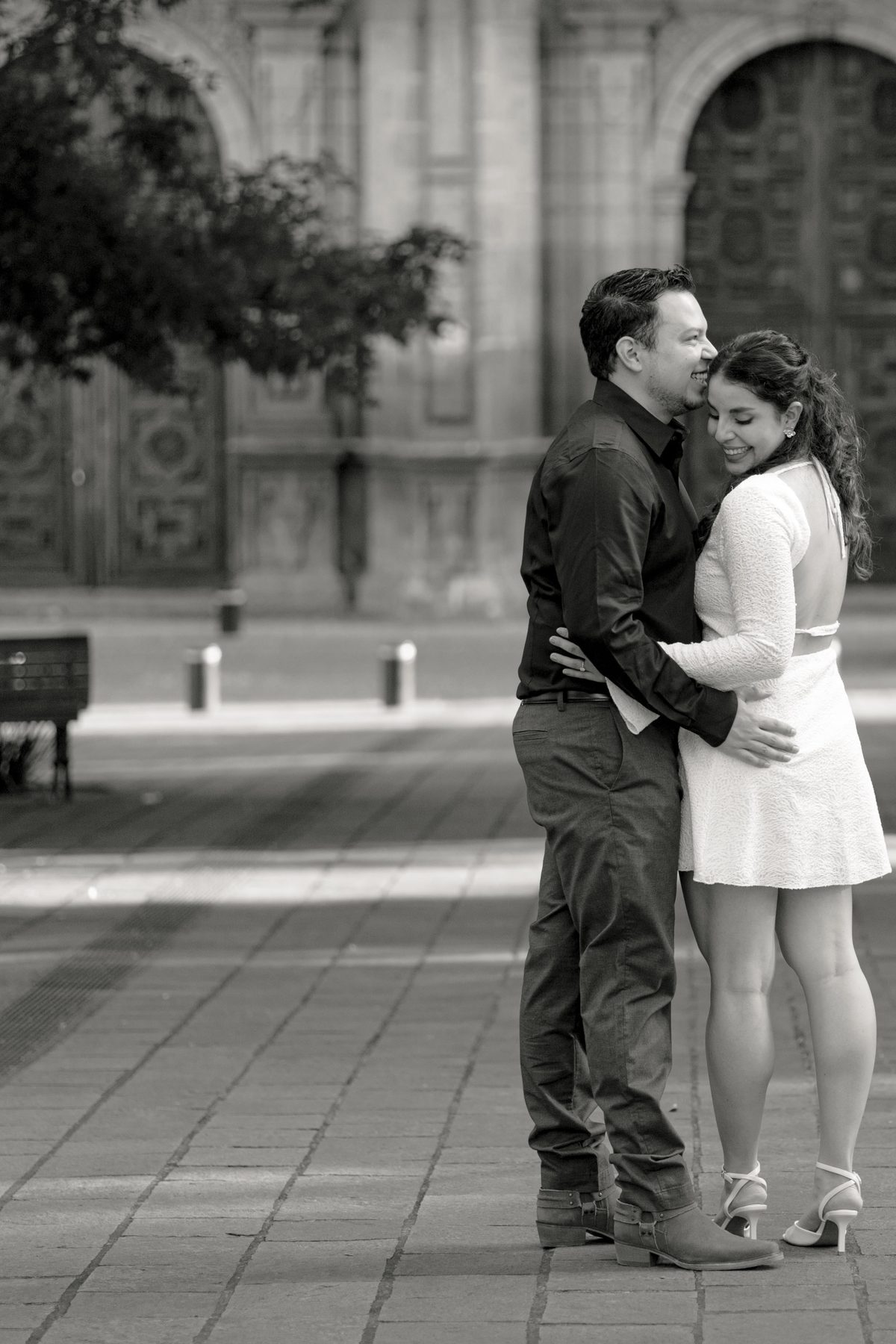
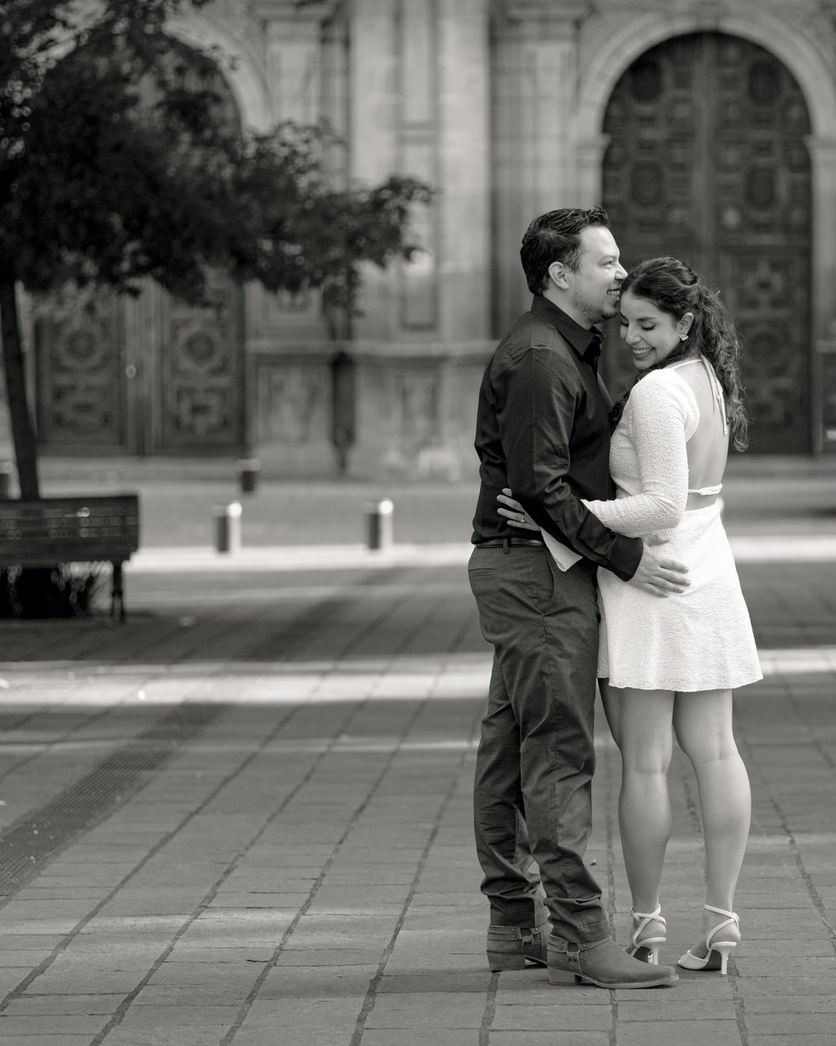
Respetar el encuadre de cada foto y quitarle el temblor al carrusel
Tenías razón en lo del encuadre, y es peor de lo que parecía. Medido:

· En el archivo sólo estropeé dos —el atrio (0.800 → 0.667) y el anillo
  (0.600 → 0.667)—, que eran justo las dos con encuadre propio. Ya se
  rehicieron desde el original sin recortar nada, sólo reduciendo tamaño.

· Pero en pantalla eran 18 de 22. A cada celda del mosaico le había puesto
  una proporción «de ritmo» (3/4, 4/5, 1/1, 3/2) y object-fit:cover
  recortaba la foto para meterla ahí: 13% en las verticales, 20% en las que
  cayeron en 4/5, y 50% en el anillo y el atrio, que quedaron en cuadrado.
  Y en el carrusel iban las 22 forzadas a 3/4.

  Ahora cada celda toma la proporción real de su foto. En el carrusel,
  todas comparten el alto y cada una toma el ancho que le pide su
  proporción. Verificado: cero celdas que recorten.

Sobre el temblor del carrusel: la causa es que la escala de cada foto la
escribe el scroll cuadro a cuadro, y encima había una transición de .7s
sobre `transform`. Cada cuadro arrancaba una animación nueva, así que el
efecto perseguía al dedo sin alcanzarlo. En modo carrusel esas transiciones
ahora van en `none` —ahí el scroll ES la animación—; la del blanco y negro
se queda, porque ése sí es un cambio de golpe.

De paso separé las mediciones de las escrituras en pintaCarrusel. Lo hice
pensando que las lecturas intercaladas forzaban recálculos de página, medí
para comprobarlo y resultó que no: `transform` no provoca recálculo, se
[…]

diff --git a/index.html b/index.html
@@ -366,28 +366,28 @@
 </div>
 
 <div id="jm-grid" class="jm-gal is-mosaico">
-<div class="jm-gitem" data-reveal="1" style="--jm-prop:3/4"><button type="button" class="jm-gcell" data-gcell="0" aria-label="Ampliar: Jorge y Montse con Raava en la puerta de madera"><div class="jm-photo" data-photo="1" style="filter:grayscale(1) contrast(1.04)"><img loading="lazy" decoding="async" class="jm-fill" src="assets/foto-puerta-raava.jpeg" alt="Jorge y Montse con Raava en la puerta de madera"></div><div class="jm-veil" data-veil="1"></div><div class="jm-gframe" data-gframe="1"></div></button></div>
-<div class="jm-gitem" data-reveal="1" style="--jm-prop:4/5"><button type="button" class="jm-gcell" data-gcell="1" aria-label="Ampliar: Los dos recargados en el portón"><div class="jm-photo" data-photo="1" style="filter:grayscale(1) contrast(1.04)"><img loading="lazy" decoding="async" class="jm-fill" src="assets/foto-puerta-madera.jpeg" alt="Los dos recargados en el portón"></div><div class="jm-veil" data-veil="1"></div><div class="jm-gframe" data-gframe="1"></div></button></div>
-<div class="jm-gitem" data-reveal="1" style="--jm-prop:3/2"><button type="button" class="jm-gcell" data-gcell="2" aria-label="Ampliar: Un beso a media calle del centro"><div class="jm-photo" data-photo="1" style="filter:grayscale(1) contrast(1.04)"><img loading="lazy" decoding="async" class="jm-fill" src="assets/foto-beso-calle.jpeg" alt="Un beso a media calle del centro"></div><div class="jm-veil" data-veil="1"></div><div class="jm-gframe" data-gframe="1"></div></button></div>
-<div class="jm-gitem" data-reveal="1" style="--jm-prop:3/4"><button type="button" class="jm-gcell" data-gcell="3" aria-label="Ampliar: Caminando por el empedrado"><div class="jm-photo" data-photo="1" style="filter:grayscale(1) contrast(1.04)"><img loading="lazy" decoding="async" class="jm-fill" src="assets/foto-caminando.jpeg" alt="Caminando por el empedrado"></div><div class="jm-veil" data-veil="1"></div><div class="jm-gframe" data-gframe="1"></div></button></div>
+<div class="jm-gitem" data-reveal="1" style="--jm-prop:2/3"><button type="button" class="jm-gcell" data-gcell="0" aria-label="Ampliar: Jorge y Montse con Raava en la puerta de madera"><div class="jm-photo" data-photo="1" style="filter:grayscale(1) contrast(1.04)"><img loading="lazy" decoding="async" class="jm-fill" src="assets/foto-puerta-raava.jpeg" alt="Jorge y Montse con Raava en la puerta de madera"></div><div class="jm-veil" data-veil="1"></div><div class="jm-gframe" data-gframe="1"></div></button></div>
+<div class="jm-gitem" data-reveal="1" style="--jm-prop:2/3"><button type="button" class="jm-gcell" data-gcell="1" aria-label="Ampliar: Los dos recargados en el portón"><div class="jm-photo" data-photo="1" style="filter:grayscale(1) contrast(1.04)"><img loading="lazy" decoding="async" class="jm-fill" src="assets/foto-puerta-madera.jpeg" alt="Los dos recargados en el portón"></div><div class="jm-veil" data-veil="1"></div><div class="jm-gframe" data-gframe="1"></div></button></div>
+<div class="jm-gitem" data-reveal="1" style="--jm-prop:1400/933"><button type="button" class="jm-gcell" data-gcell="2" aria-label="Ampliar: Un beso a media calle del centro"><div class="jm-photo" data-photo="1" style="filter:grayscale(1) contrast(1.04)"><img loading="lazy" decoding="async" class="jm-fill" src="assets/foto-beso-calle.jpeg" alt="Un beso a media calle del centro"></div><div class="jm-veil" data-veil="1"></div><div class="jm-gframe" data-gframe="1"></div></button></div>
+<div class="jm-gitem" data-reveal="1" style="--jm-prop:2/3"><button type="button" class="jm-gcell" data-gcell="3" aria-label="Ampliar: Caminando por el empedrado"><div class="jm-photo" data-photo="1" style="filter:grayscale(1) contrast(1.04)"><img loading="lazy" decoding="async" class="jm-fill" src="assets/foto-caminando.jpeg" alt="Caminando por el empedrado"></div><div class="jm-veil" data-veil="1"></div><div class="jm-gframe" data-gframe="1"></div></button></div>
 <div class="jm-gitem" data-reveal="1" style="--jm-prop:4/5"><button type="button" class="jm-gcell" data-gcell="4" aria-label="Ampliar: Montse dando una vuelta de la mano de Jorge"><div class="jm-photo" data-photo="1" style="filter:grayscale(1) contrast(1.04)"><img loading="lazy" decoding="async" class="jm-fill" src="assets/foto-vuelta.jpeg" alt="Montse dando una vuelta de la mano de Jorge"></div><div class="jm-veil" data-veil="1"></div><div class="jm-gframe" data-gframe="1"></div></button></div>
-<div class="jm-gitem" data-reveal="1" style="--jm-prop:3/2"><button type="button" class="jm-gcell" data-gcell="5" aria-label="Ampliar: Los dos riéndose"><div class="jm-photo" data-photo="1" style="filter:grayscale(1) contrast(1.04)"><img loading="lazy" decoding="async" class="jm-fill" src="assets/foto-risa.jpeg" alt="Los dos riéndose"></div><div class="jm-veil" data-veil="1"></div><div class="jm-gframe" data-gframe="1"></div></button></div>
-<div class="jm-gitem" data-reveal="1" style="--jm-prop:3/4"><button type="button" class="jm-gcell" data-gcell="6" aria-label="Ampliar: Un beso frente a la cantera de la fachada"><div class="jm-photo" data-photo="1" style="filter:grayscale(1) contrast(1.04)"><img loading="lazy" decoding="async" class="jm-fill" src="assets/foto-beso-fachada.jpeg" alt="Un beso frente a la cantera de la fachada"></div><div class="jm-veil" data-veil="1"></div><div class="jm-gframe" data-gframe="1"></div></button></div>
-<div class="jm-gitem" data-reveal="1" style="--jm-prop:4/5"><button type="button" class="jm-gcell" data-gcell="7" aria-label="Ampliar: Abrazados frente a las puertas del templo"><div class="jm-photo" data-photo="1" style="filter:grayscale(1) contrast(1.04)"><img loading="lazy" decoding="async" class="jm-fill" src="assets/foto-puerta-templo.jpeg" alt="Abrazados frente a las puertas del templo"></div><div class="jm-veil" data-veil="1"></div><div class="jm-gframe" data-gframe="1"></div></button></div>
-<div class="jm-gitem" data-reveal="1" style="--jm-prop:1/1"><button type="button" class="jm-gcell" data-gcell="8" aria-label="Ampliar: En el atrio, en blanco y negro"><div class="jm-photo" data-photo="1" style="filter:grayscale(1) contrast(1.04)"><img loading="lazy" decoding="async" class="jm-fill" src="assets/foto-atrio.jpeg" alt="En el atrio, en blanco y negro"></div><div class="jm-veil" data-veil="1"></div><div class="jm-gframe" data-gframe="1"></div></button></div>
-<div class="jm-gitem" data-reveal="1" style="--jm-prop:3/4"><button type="button" class="jm-gcell" data-gcell="9" aria-label="Ampliar: Un abrazo en medio de la calle"><div class="jm-photo" data-photo="1" style="filter:grayscale(1) contrast(1.04)"><img loading="lazy" decoding="async" class="jm-fill" src="assets/foto-abrazo-calle.jpeg" alt="Un abrazo en medio de la calle"></div><div class="jm-veil" data-veil="1"></div><div class="jm-gframe" data-gframe="1"></div></button></div>
-<div class="jm-gitem" data-reveal="1" style="--jm-prop:4/5"><button type="button" class="jm-gcell" data-gcell="10" aria-label="Ampliar: Jorge le da un beso en la mejilla"><div class="jm-photo" data-photo="1" style="filter:grayscale(1) contrast(1.04)"><img loading="lazy" decoding="async" class="jm-fill" src="assets/foto-beso-mejilla.jpeg" alt="Jorge le da un beso en la mejilla"></div><div class="jm-veil" data-veil="1"></div><div class="jm-gframe" data-gframe="1"></div></button></div>
-<div class="jm-gitem" data-reveal="1" style="--jm-prop:1/1"><button type="button" class="jm-gcell" data-gcell="11" aria-label="Ampliar: El anillo de compromiso"><div class="jm-photo" data-photo="1" style="filter:grayscale(1) contrast(1.04)"><img loading="lazy" decoding="async" class="jm-fill" src="assets/foto-anillo.jpeg" alt="El anillo de compromiso"></div><div class="jm-veil" data-veil="1"></div><div class="jm-gframe" data-gframe="1"></div></button></div>
-<div class="jm-gitem" data-reveal="1" style="--jm-prop:3/4"><button type="button" class="jm-gcell" data-gcell="12" aria-label="Ampliar: Frente con frente, nariz con nariz"><div class="jm-photo" data-photo="1" style="filter:grayscale(1) contrast(1.04)"><img loading="lazy" decoding="async" class="jm-fill" src="assets/foto-narices.jpeg" alt="Frente con frente, nariz con nariz"></div><div class="jm-veil" data-veil="1"></div><div class="jm-gframe" data-gframe="1"></div></button></div>
-<div class="jm-gitem" data-reveal="1" style="--jm-prop:4/5"><button type="button" class="jm-gcell" data-gcell="13" aria-label="Ampliar: Montse le aprieta los cachetes a Jorge"><div class="jm-photo" data-photo="1" style="filter:grayscale(1) contrast(1.04)"><img loading="lazy" decoding="async" class="jm-fill" src="assets/foto-cachetes.jpeg" alt="Montse le aprieta los cachetes a Jorge"></div><div class="jm-veil" data-veil="1"></div><div class="jm-gframe" data-gframe="1"></div></button></div>
-<div class="jm-gitem" data-reveal="1" style="--jm-prop:3/4"><button type="button" class="jm-gcell" data-gcell="14" aria-label="Ampliar: Abrazados contra el muro de piedra"><div class="jm-photo" data-photo="1" style="filter:grayscale(1) contrast(1.04)"><img loading="lazy" decoding="async" class="jm-fill" src="assets/foto-abrazo-muro.jpeg" alt="Abrazados contra el muro de piedra"></div><div class="jm-veil" data-veil="1"></div><div class="jm-gframe" data-gframe="1"></div></button></div>
-<div class="jm-gitem" data-reveal="1" style="--jm-prop:4/5"><button type="button" class="jm-gcell" data-gcell="15" aria-label="Ampliar: Los dos de frente, muy juntos"><div class="jm-photo" data-photo="1" style="filter:grayscale(1) contrast(1.04)"><img loading="lazy" decoding="async" class="jm-fill" src="assets/foto-frente-a-frente.jpeg" alt="Los dos de frente, muy juntos"></div><div class="jm-veil" data-veil="1"></div><div class="jm-gframe" data-gframe="1"></div></button></div>
-<div class="jm-gitem" data-reveal="1" style="--jm-prop:3/4"><button type="button" class="jm-gcell" data-gcell="16" aria-label="Ampliar: Un beso con ella de puntitas"><div class="jm-photo" data-photo="1" style="filter:grayscale(1) contrast(1.04)"><img loading="lazy" decoding="async" class="jm-fill" src="assets/foto-beso-alzada.jpeg" alt="Un beso con ella de puntitas"></div><div class="jm-veil" data-veil="1"></div><div class="jm-gframe" data-gframe="1"></div></button></div>
-<div class="jm-gitem" data-reveal="1" style="--jm-prop:4/5"><button type="button" class="jm-gcell" data-gcell="17" aria-label="Ampliar: Sentados, platicando"><div class="jm-photo" data-photo="1" style="filter:grayscale(1) contrast(1.04)"><img loading="lazy" decoding="async" class="jm-fill" src="assets/foto-sentados.jpeg" alt="Sentados, platicando"></div><div class="jm-veil" data-veil="1"></div><div class="jm-gframe" data-gframe="1"></div></button></div>
-<div class="jm-gitem" data-reveal="1" style="--jm-prop:3/2"><button type="button" class="jm-gcell" data-gcell="18" aria-label="Ampliar: Raava en la banca con los dos"><div class="jm-photo" data-photo="1" style="filter:grayscale(1) contrast(1.04)"><img loading="lazy" decoding="async" class="jm-fill" src="assets/foto-raava-banca.jpeg" alt="Raava en la banca con los dos"></div><div class="jm-veil" data-veil="1"></div><div class="jm-gframe" data-gframe="1"></div></button></div>
-<div class="jm-gitem" data-reveal="1" style="--jm-prop:3/4"><button type="button" class="jm-gcell" data-gcell="19" aria-label="Ampliar: Los tres sentados en la banca del jardín"><div class="jm-photo" data-photo="1" style="filter:grayscale(1) contrast(1.04)"><img loading="lazy" decoding="async" class="jm-fill" src="assets/foto-banca.jpeg" alt="Los tres sentados en la banca del jardín"></div><div class="jm-veil" data-veil="1"></div><div class="jm-gframe" data-gframe="1"></div></button></div>
-<div class="jm-gitem" data-reveal="1" style="--jm-prop:4/5"><button type="button" class="jm-gcell" data-gcell="20" aria-label="Ampliar: Raava con la paliacate de save the date"><div class="jm-photo" data-photo="1" style="filter:grayscale(1) contrast(1.04)"><img loading="lazy" decoding="async" class="jm-fill" src="assets/foto-raava-bandana.jpeg" alt="Raava con la paliacate de save the date"></div><div class="jm-veil" data-veil="1"></div><div class="jm-gframe" data-gframe="1"></div></button></div>
-<div class="jm-gitem" data-reveal="1" style="--jm-prop:3/4"><button type="button" class="jm-gcell" data-gcell="21" aria-label="Ampliar: Los tres juntos: Jorge, Montse y Raava"><div class="jm-photo" data-photo="1" style="filter:grayscale(1) contrast(1.04)"><img loading="lazy" decoding="async" class="jm-fill" src="assets/foto-los-tres.jpeg" alt="Los tres juntos: Jorge, Montse y Raava"></div><div class="jm-veil" data-veil="1"></div><div class="jm-gframe" data-gframe="1"></div></button></div>
+<div class="jm-gitem" data-reveal="1" style="--jm-prop:1400/933"><button type="button" class="jm-gcell" data-gcell="5" aria-label="Ampliar: Los dos riéndose"><div class="jm-photo" data-photo="1" style="filter:grayscale(1) contrast(1.04)"><img loading="lazy" decoding="async" class="jm-fill" src="assets/foto-risa.jpeg" alt="Los dos riéndose"></div><div class="jm-veil" data-veil="1"></div><div class="jm-gframe" data-gframe="1"></div></button></div>
+<div class="jm-gitem" data-reveal="1" style="--jm-prop:2/3"><button type="button" class="jm-gcell" data-gcell="6" aria-label="Ampliar: Un beso frente a la cantera de la fachada"><div class="jm-photo" data-photo="1" style="filter:grayscale(1) contrast(1.04)"><img loading="lazy" decoding="async" class="jm-fill" src="assets/foto-beso-fachada.jpeg" alt="Un beso frente a la cantera de la fachada"></div><div class="jm-veil" data-veil="1"></div><div class="jm-gframe" data-gframe="1"></div></button></div>
+<div class="jm-gitem" data-reveal="1" style="--jm-prop:2/3"><button type="button" class="jm-gcell" data-gcell="7" aria-label="Ampliar: Abrazados frente a las puertas del templo"><div class="jm-photo" data-photo="1" style="filter:grayscale(1) contrast(1.04)"><img loading="lazy" decoding="async" class="jm-fill" src="assets/foto-puerta-templo.jpeg" alt="Abrazados frente a las puertas del templo"></div><div class="jm-veil" data-veil="1"></div><div class="jm-gframe" data-gframe="1"></div></button></div>
+<div class="jm-gitem" data-reveal="1" style="--jm-prop:4/5"><button type="button" class="jm-gcell" data-gcell="8" aria-label="Ampliar: En el atrio, en blanco y negro"><div class="jm-photo" data-photo="1" style="filter:grayscale(1) contrast(1.04)"><img loading="lazy" decoding="async" class="jm-fill" src="assets/foto-atrio.jpeg" alt="En el atrio, en blanco y negro"></div><div class="jm-veil" data-veil="1"></div><div class="jm-gframe" data-gframe="1"></div></button></div>
+<div class="jm-gitem" data-reveal="1" style="--jm-prop:1200/1801"><button type="button" class="jm-gcell" data-gcell="9" aria-label="Ampliar: Un abrazo en medio de la calle"><div class="jm-photo" data-photo="1" style="filter:grayscale(1) contrast(1.04)"><img loading="lazy" decoding="async" class="jm-fill" src="assets/foto-abrazo-calle.jpeg" alt="Un abrazo en medio de la calle"></div><div class="jm-veil" data-veil="1"></div><div class="jm-gframe" data-gframe="1"></div></button></div>
+<div class="jm-gitem" data-reveal="1" style="--jm-prop:2/3"><button type="button" class="jm-gcell" data-gcell="10" aria-label="Ampliar: Jorge le da un beso en la mejilla"><div class="jm-photo" data-photo="1" style="filter:grayscale(1) contrast(1.04)"><img loading="lazy" decoding="async" class="jm-fill" src="assets/foto-beso-mejilla.jpeg" alt="Jorge le da un beso en la mejilla"></div><div class="jm-veil" data-veil="1"></div><div class="jm-gframe" data-gframe="1"></div></button></div>
+<div class="jm-gitem" data-reveal="1" style="--jm-prop:3/5"><button type="button" class="jm-gcell" data-gcell="11" aria-label="Ampliar: El anillo de compromiso"><div class="jm-photo" data-photo="1" style="filter:grayscale(1) contrast(1.04)"><img loading="lazy" decoding="async" class="jm-fill" src="assets/foto-anillo.jpeg" alt="El anillo de compromiso"></div><div class="jm-veil" data-veil="1"></div><div class="jm-gframe" data-gframe="1"></div></button></div>
+<div class="jm-gitem" data-reveal="1" style="--jm-prop:2/3"><button type="button" class="jm-gcell" data-gcell="12" aria-label="Ampliar: Frente con frente, nariz con nariz"><div class="jm-photo" data-photo="1" style="filter:grayscale(1) contrast(1.04)"><img loading="lazy" decoding="async" class="jm-fill" src="assets/foto-narices.jpeg" alt="Frente con frente, nariz con nariz"></div><div class="jm-veil" data-veil="1"></div><div class="jm-gframe" data-gframe="1"></div></button></div>
+<div class="jm-gitem" data-reveal="1" style="--jm-prop:2/3"><button type="button" class="jm-gcell" data-gcell="13" aria-label="Ampliar: Montse le aprieta los cachetes a Jorge"><div class="jm-photo" data-photo="1" style="filter:grayscale(1) contrast(1.04)"><img loading="lazy" decoding="async" class="jm-fill" src="assets/foto-cachetes.jpeg" alt="Montse le aprieta los cachetes a Jorge"></div><div class="jm-veil" data-veil="1"></div><div class="jm-gframe" data-gframe="1"></div></button></div>
+<div class="jm-gitem" data-reveal="1" style="--jm-prop:2/3"><button type="button" class="jm-gcell" data-gcell="14" aria-label="Ampliar: Abrazados contra el muro de piedra"><div class="jm-photo" data-photo="1" style="filter:grayscale(1) contrast(1.04)"><img loading="lazy" decoding="async" class="jm-fill" src="assets/foto-abrazo-muro.jpeg" alt="Abrazados contra el muro de piedra"></div><div class="jm-veil" data-veil="1"></div><div class="jm-gframe" data-gframe="1"></div></button></div>
+<div class="jm-gitem" data-reveal="1" style="--jm-prop:2/3"><button type="button" class="jm-gcell" data-gcell="15" aria-label="Ampliar: Los dos de frente, muy juntos"><div class="jm-photo" data-photo="1" style="filter:grayscale(1) contrast(1.04)"><img loading="lazy" decoding="async" class="jm-fill" src="assets/foto-frente-a-frente.jpeg" alt="Los dos de frente, muy juntos"></div><div class="jm-veil" data-veil="1"></div><div class="jm-gframe" data-gframe="1"></div></button></div>
+<div class="jm-gitem" data-reveal="1" style="--jm-prop:1200/1801"><button type="button" class="jm-gcell" data-gcell="16" aria-label="Ampliar: Un beso con ella de puntitas"><div class="jm-photo" data-photo="1" style="filter:grayscale(1) contrast(1.04)"><img loading="lazy" decoding="async" class="jm-fill" src="assets/foto-beso-alzada.jpeg" alt="Un beso con ella de puntitas"></div><div class="jm-veil" data-veil="1"></div><div class="jm-gframe" data-gframe="1"></div></button></div>
+<div class="jm-gitem" data-reveal="1" style="--jm-prop:2/3"><button type="button" class="jm-gcell" data-gcell="17" aria-label="Ampliar: Sentados, platicando"><div class="jm-photo" data-photo="1" style="filter:grayscale(1) contrast(1.04)"><img loading="lazy" decoding="async" class="jm-fill" src="assets/foto-sentados.jpeg" alt="Sentados, platicando"></div><div class="jm-veil" data-veil="1"></div><div class="jm-gframe" data-gframe="1"></div></button></div>
+<div class="jm-gitem" data-reveal="1" style="--jm-prop:1400/933"><button type="button" class="jm-gcell" data-gcell="18" aria-label="Ampliar: Raava en la banca con los dos"><div class="jm-photo" data-photo="1" style="filter:grayscale(1) contrast(1.04)"><img loading="lazy" decoding="async" class="jm-fill" src="assets/foto-raava-banca.jpeg" alt="Raava en la banca con los dos"></div><div class="jm-veil" data-veil="1"></div><div class="jm-gframe" data-gframe="1"></div></button></div>
+<div class="jm-gitem" data-reveal="1" style="--jm-prop:2/3"><button type="button" class="jm-gcell" data-gcell="19" aria-label="Ampliar: Los tres sentados en la banca del jardín"><div class="jm-photo" data-photo="1" style="filter:grayscale(1) contrast(1.04)"><img loading="lazy" decoding="async" class="jm-fill" src="assets/foto-banca.jpeg" alt="Los tres sentados en la banca del jardín"></div><div class="jm-veil" data-veil="1"></div><div class="jm-gframe" data-gframe="1"></div></button></div>
+<div class="jm-gitem" data-reveal="1" style="--jm-prop:2/3"><button type="button" class="jm-gcell" data-gcell="20" aria-label="Ampliar: Raava con la paliacate de save the date"><div class="jm-photo" data-photo="1" style="filter:grayscale(1) contrast(1.04)"><img loading="lazy" decoding="async" class="jm-fill" src="assets/foto-raava-bandana.jpeg" alt="Raava con la paliacate de save the date"></div><div class="jm-veil" data-veil="1"></div><div class="jm-gframe" data-gframe="1"></div></button></div>
+<div class="jm-gitem" data-reveal="1" style="--jm-prop:2/3"><button type="button" class="jm-gcell" data-gcell="21" aria-label="Ampliar: Los tres juntos: Jorge, Montse y Raava"><div class="jm-photo" data-photo="1" style="filter:grayscale(1) contrast(1.04)"><img loading="lazy" decoding="async" class="jm-fill" src="assets/foto-los-tres.jpeg" alt="Los tres juntos: Jorge, Montse y Raava"></div><div class="jm-veil" data-veil="1"></div><div class="jm-gframe" data-gframe="1"></div></button></div>
 </div>
 
 <!-- Pie del carrusel: se enciende sólo en ese modo (site.js). Las flechas

diff --git a/assets/js/site.js b/assets/js/site.js
@@ -602,12 +602,20 @@
        mismo filtro. */
     if (modo === 'carrusel') {
       if (state.obsCentro) { state.obsCentro.disconnect(); state.obsCentro = null; }
+      /* No basta con scrollLeft = 0: como cada diapositiva mide lo que le
+         pide su foto, el padding de los lados está calculado para la más
+         ancha y en el cero la primera queda descentrada. Hay que llevarla
+         a su sitio, igual que hacen las flechas. */
+      state.carIndex = 0;
       el.grid.scrollLeft = 0;
-      pintaCarrusel();
       /* El layout del carrusel aún no está firme en el mismo frame en que
-         se pone la clase; sin este segundo pase la primera foto arranca
-         apagada. */
-      requestAnimationFrame(pintaCarrusel);
+         se pone la clase: medir aquí devolvería la geometría del mosaico.
+         Por eso el centrado y el primer pintado van hasta el cuadro
+         siguiente, cuando las diapositivas ya tienen su ancho. */
+      requestAnimationFrame(function () {
+        centraDiapo(0, 'auto');
+        pintaCarrusel();
+      });
     } else {
       limpiaCarrusel();
       setupGaleriaSinMouse();
@@ -651,15 +659,25 @@
     var centro = caja.left + caja.width / 2;
     var gris = PHOTO_FILTERS[CONFIG.photoTone] || PHOTO_FILTERS['blanco y negro'];
     var masCerca = 0, mejor = Infinity;
+    var i, cell;
 
-    for (var i = 0; i < cells.length; i++) {
-      var cell = cells[i];
-      var r = cell.getBoundingClientRect();
+    /* Primero se mide TODO y después se escribe TODO.
+       Mezclarlo —medir una celda, escribirle, medir la siguiente— obliga al
+       navegador a recalcular la página entre una y otra: 22 recálculos por
+       cuadro, y de ahí venía el temblor al arrastrar. */
+    var t = [];
+    for (i = 0; i < cells.length; i++) {
+      var r = cells[i].getBoundingClientRect();
       var d = (r.left + r.width / 2) - centro;
-      var t = Math.max(-1, Math.min(1, d / (caja.width / 2 || 1)));
-      var a = Math.abs(t);
-      if (a < mejor) { mejor = a; masCerca = i; }
+      var v = Math.max(-1, Math.min(1, d / (caja.width / 2 || 1)));
+      t.push(v);
+      var a0 = Math.abs(v);
+      if (a0 < mejor) { mejor = a0; masCerca = i; }
+    }
 
+    for (i = 0; i < cells.length; i++) {
+      cell = cells[i];
+      var a = Math.abs(t[i]);
       var img = cell.querySelector('img');
       var veil = cell.querySelector('[data-veil]');
       var frame = cell.querySelector('[data-gframe]');
@@ -670,11 +688,13 @@
         if (img) img.style.setProperty('--jm-px', '0px');
       } else {
         cell.style.setProperty('--jm-esc', (1 - a * 0.12).toFixed(4));
-        if (img) img.style.setProperty('--jm-px', (-t * 26).toFixed(1) + 'px');
+        if (img) img.style.setProperty('--jm-px', (-t[i] * 26).toFixed(1) + 'px');
         if (img) img.style.setProperty('--jm-zoom', '1.1');
       }
       if (veil) veil.style.setProperty('--jm-velo', Math.min(1, a * 1.6).toFixed(3));
       if (frame) frame.style.setProperty('--jm-marco', Math.max(0, 1 - a * 3).toFixed(3));
+      /* El blanco y negro sí lleva transición: es un cambio de golpe, no un
+         valor que se recalcula cuadro a cuadro. */
       if (inner) inner.style.filter = a < 0.34 ? 'none' : gris;
     }
 
@@ -688,15 +708,21 @@
     state.carIndex = masCerca;
   }
 
-  function pasoCarrusel(dir) {
-    if (!el.grid || !cells.length) return;
-    var i = Math.max(0, Math.min(cells.length - 1, (state.carIndex || 0) + dir));
+  /* Deja la diapositiva `i` en el centro del riel. */
+  function centraDiapo(i, comportamiento) {
     var cell = cells[i];
-    if (!cell) return;
+    if (!el.grid || !cell) return;
     var caja = el.grid.getBoundingClientRect();
     var r = cell.getBoundingClientRect();
     var salto = (r.left + r.width / 2) - (caja.left + caja.width / 2);
-    el.grid.scrollBy({ left: salto, behavior: reduceMotion ? 'auto' : 'smooth' });
+    if (Math.abs(salto) < 1) return;
+    el.grid.scrollBy({ left: salto, behavior: comportamiento || 'auto' });
+  }
+
+  function pasoCarrusel(dir) {
+    if (!el.grid || !cells.length) return;
+    var i = Math.max(0, Math.min(cells.length - 1, (state.carIndex || 0) + dir));
+    centraDiapo(i, reduceMotion ? 'auto' : 'smooth');
   }
 
   function fitGrid() {

diff --git a/assets/css/site.css b/assets/css/site.css
@@ -243,20 +243,46 @@ img { max-width: 100%; }
   scroll-padding-inline: max(var(--jm-lado), calc(50% + var(--jm-lado) - var(--jm-diapo) / 2));
 }
 .jm-gal.is-carrusel::-webkit-scrollbar { display: none; }
+/* Todas las diapositivas comparten el alto y cada una toma el ancho que le
+   pide su propia proporción. Antes iban todas forzadas a 3/4 y `cover`
+   recortaba: eso tiraba el encuadre con el que se escogió cada foto. El
+   ancho de referencia para centrar es el de la más ancha (la horizontal,
+   3:2), porque el padding tiene que alcanzar para la peor. */
+.jm-gal.is-carrusel {
+  --jm-alto: min(58vh, 460px);
+  /* El padding de los lados sale de aquí, y tiene que alcanzar para
+     centrar la diapositiva MÁS ANGOSTA, no la más ancha: con el ancho de
+     la más ancha, la primera foto se quedaba 192 px a la izquierda porque
+     ya no había scroll hacia atrás para acabar de centrarla. La más
+     angosta es la vertical de 3:5 (el anillo). */
+  --jm-diapo: calc(var(--jm-alto) * 0.6);
+}
 .jm-gal.is-carrusel .jm-gitem {
-  --jm-diapo: min(76vw, 400px);
-  flex: 0 0 var(--jm-diapo);
-  width: var(--jm-diapo);
+  flex: 0 0 auto;
+  height: var(--jm-alto);
   scroll-snap-align: center;
 }
-.jm-gal.is-carrusel { --jm-diapo: min(76vw, 400px); }
-/* En el carrusel todas las fotos van con la misma proporción: es lo que
-   hace que el ojo siga a la que está al centro y no a la que es más
-   grande. object-fit:cover se encarga del recorte. */
-.jm-gal.is-carrusel .jm-gcell { aspect-ratio: 3 / 4; }
-@media (min-width: 901px) {
-  .jm-gal.is-carrusel { --jm-diapo: min(46vw, 470px); }
-  .jm-gal.is-carrusel .jm-gitem { --jm-diapo: min(46vw, 470px); }
+.jm-gal.is-carrusel .jm-gcell {
+  height: 100%;
+  width: auto;
+  aspect-ratio: var(--jm-prop, 2 / 3);
+}
+
+/* Mientras se arrastra, la escala y el corrimiento de la foto los va
+   escribiendo el scroll cuadro a cuadro. Una transición encima haría que
+   cada cuadro arrancara una animación nueva de casi un segundo: el efecto
+   persigue al dedo sin alcanzarlo nunca, y eso es lo que se siente como
+   temblor. Aquí el scroll ES la animación. */
+.jm-gal.is-carrusel .jm-gcell,
+.jm-gal.is-carrusel .jm-gcell img,
+.jm-gal.is-carrusel .jm-gcell .jm-veil,
+.jm-gal.is-carrusel .jm-gcell .jm-gframe { transition: none; }
+.jm-gal.is-carrusel .jm-gcell { will-change: transform; }
+/* El blanco y negro sí conserva la suya: es un cambio de golpe. */
+.jm-gal.is-carrusel .jm-gcell .jm-photo { transition: filter .5s ease; }
+
+@media (max-width: 900px) {
+  .jm-gal.is-carrusel { --jm-alto: min(62vh, 520px); }
 }
 
 /* --- Pie del carrusel --- */
